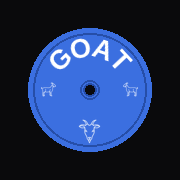
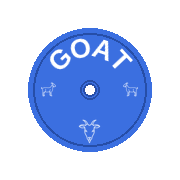
Fix ícono/splash: reemplaza íconos y alinea background/theme color con --bg
- Reemplaza icon-192.png, icon-512.png, apple-touch-icon.png y
  favicon-32.png (icon-512-maskable.png sin cambios).
- manifest.json: background_color/theme_color de #0B1220 a #0A0A0C
  (igual a --bg en estilos.css) — el mismatch causaba un borde/
  rectángulo visible en la pantalla de carga.
- index.html: mismo fix en <meta name="theme-color">, mismo rol.
- sw.js goat-v12 → v13.

diff --git a/index.html b/index.html
@@ -3,7 +3,7 @@
 <head>
   <meta charset="UTF-8">
   <meta name="viewport" content="width=device-width, initial-scale=1, viewport-fit=cover">
-  <meta name="theme-color" content="#0B1220">
+  <meta name="theme-color" content="#0A0A0C">
   <title>GOAT</title>
   <link rel="manifest" href="manifest.json">
   <link rel="icon" type="image/png" sizes="32x32" href="icons/favicon-32.png">

diff --git a/sw.js b/sw.js
@@ -6,7 +6,7 @@
    app shell se sirve cache-first. No hay build tools: solo edita esta constante.
 ======================================================================================= */
 
-const CACHE_NAME = "goat-v12";
+const CACHE_NAME = "goat-v13";
 
 // App shell propio (mismo origen). "./" cubre la navegación a la raíz de la app.
 const APP_SHELL = [

diff --git a/STATUS.md b/STATUS.md
@@ -447,3 +447,26 @@ Entradas nuevas al final. No reescribir lo anterior.
   propio en el ejercicio NO arranca descanso automático, y que
   definiéndole 20s a un ejercicio sí lo arranca con ese valor. Falta
   probar en el teléfono real.
+
+## 2026-08-05
+- Fix de ícono/splash: se reemplazaron icons/icon-192.png,
+  icon-512.png, apple-touch-icon.png y favicon-32.png (mismo disco
+  azul "GOAT", archivos entregados por Martín) — icon-512-maskable.png
+  no se tocó. manifest.json tenía background_color/theme_color en
+  #0B1220, que NO coincidía con --bg (#0A0A0C en estilos.css): eso
+  causaba el borde/rectángulo visible alrededor del ícono en la
+  pantalla de carga. Se corrigió a #0A0A0C en ambos campos, y también
+  en el <meta name="theme-color"> de index.html (mismo rol, tenía el
+  mismo valor viejo — no estaba pedido explícitamente pero quedaba
+  inconsistente si no se igualaba). sw.js goat-v12 → v13 (los íconos
+  van en APP_SHELL, cache-first).
+- Verificado: hash de cada ícono en disco = hash servido por el
+  servidor local = hash del zip original (los 4 archivos llegaron
+  intactos); manifest.json e index.html sirven #0A0A0C. El panel de
+  navegador usado para verificar tiene un caché propio por URL que no
+  se pudo invalidar (ni con unregister de SW + clear caches + tab
+  nueva) — se confirmó por curl directo al servidor en vez de pelear
+  con ese caché, así que no afecta lo que se sube. Pendiente: Martín
+  tiene que borrar el acceso directo instalado y agregarlo de nuevo en
+  su teléfono para confirmar visualmente que la pantalla de carga
+  queda sin el rectángulo — eso no se puede probar desde acá.
